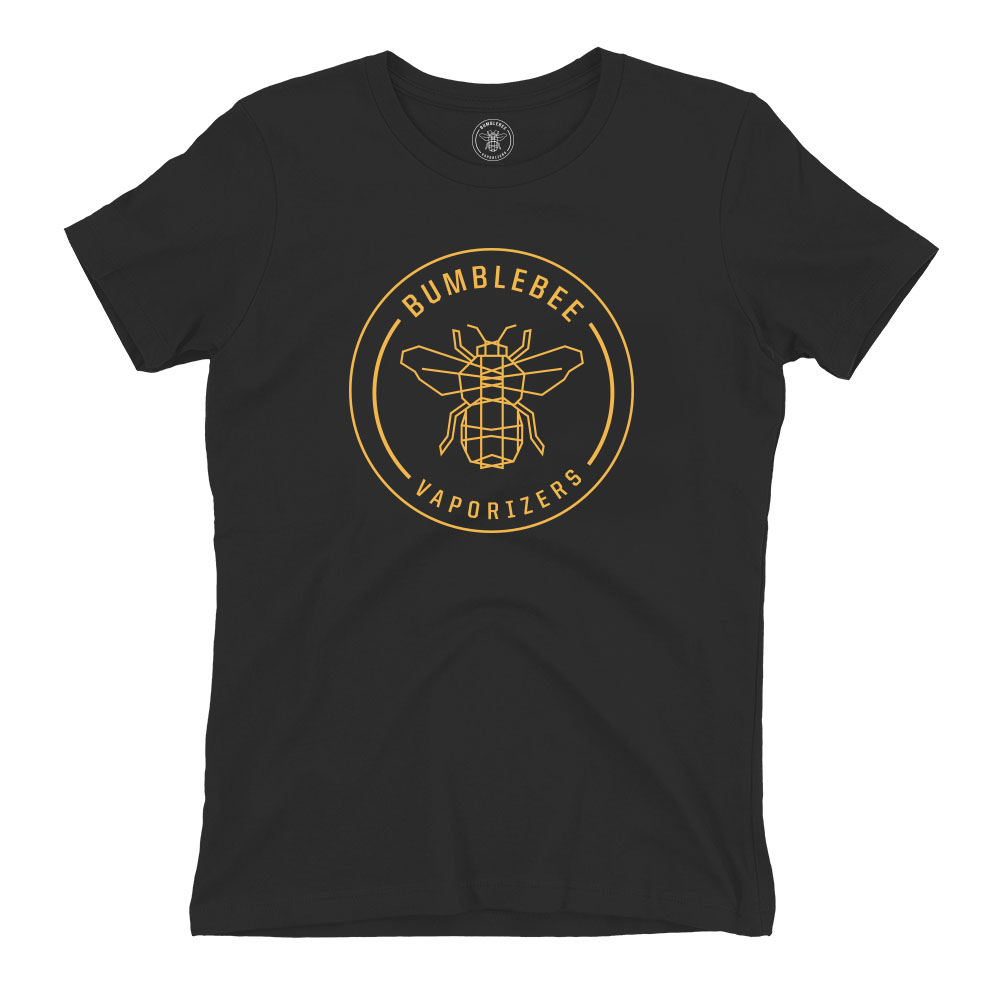
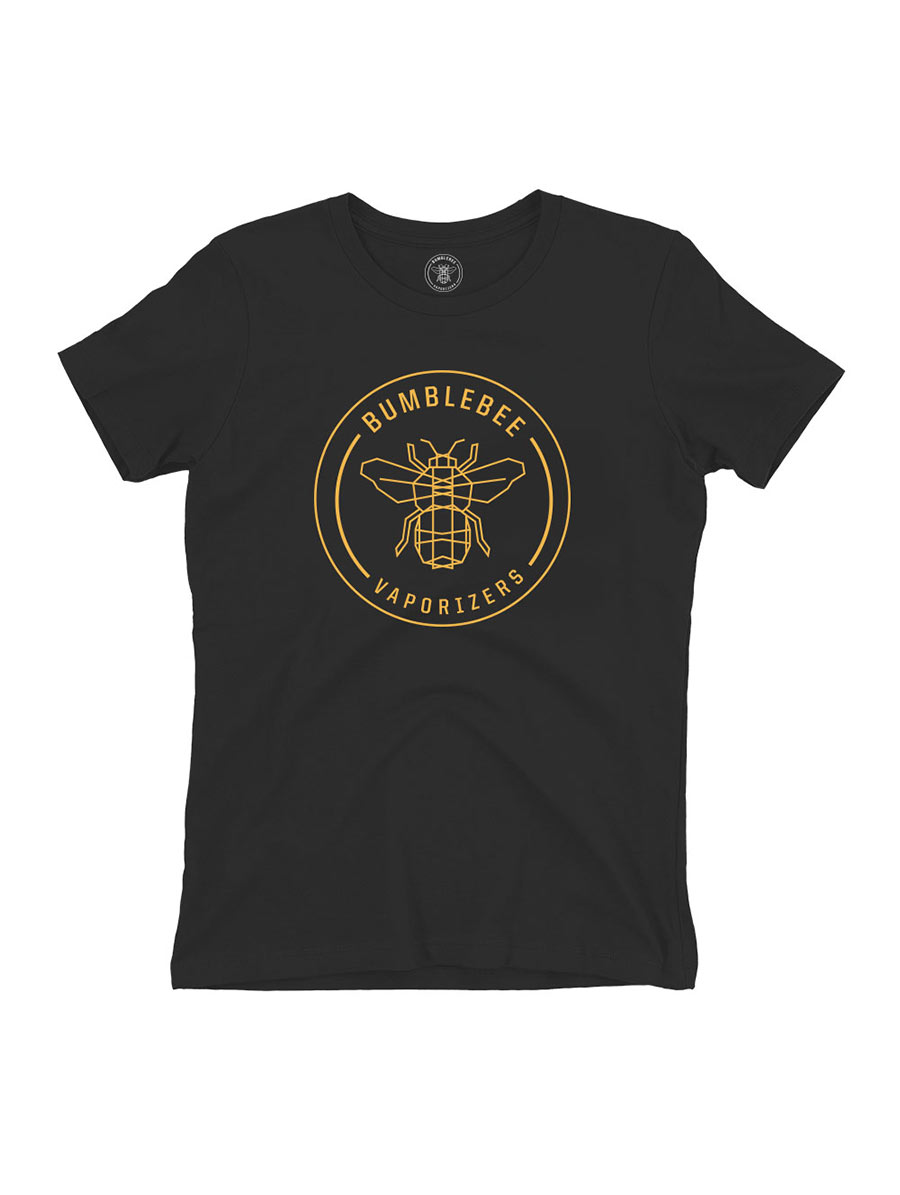
Pen info modals

Changed region(s): [[0.0622, 0.031, 0.9333, 0.434], [0.1867, 0.589, 0.7778, 0.961], [0.3422, 0.217, 0.6533, 0.558]]

diff --git a/index.html b/index.html
@@ -237,29 +237,68 @@
 					<figure class="product pen">
 						<h1 class="product_header">PENS.</h1>
 						<img src="assets/Pen_Sour_diesel.jpg" alt="Thumb"/>
-						<a href="http://bumblebee.meteorapp.com/bumblebee-vapes/product/sour-diesel" target="_blank">
-					    <figcaption class="produc"><div>learn More</div></figcation>
-						</a>
+						<figcaption class="produc pen1"><div class="">learn More</div></figcation>
 				  </figure>
+				</div>
+				<div class="modal" id="pen1">
+				  <div class="modal-background"></div>
+				  <div class="modal-content">
+						<div class="box black">
+							<p class="bv_pens_info">Pens</p>
+							<span class="tag is-success is-medium is-radiusless">Indica</span>
+							<span class="tag is-primary is-medium is-radiusless">Hybrid</span>
+							<span class="tag is-info is-medium is-radiusless">Sativa</span>
+							<br>
+							<hr>
+							<p class="bv_pens_content">We at Bumblebee vaporizers have offered the long lasting, durable and reliable single use vape pen for years, and it remains the industry's leading single use vaporizer pen due to our commitment to quality.  We use proven vape technology that allows consumption of a full gram of concentrate, with less headache and less hassle for the user.  The cartridge is pre-filled with a gram of our high potency concentrate giving the user a full dose of our strain specific medicine in one short puff.  The battery comes pre-charged and lasts the duration of the medicine so using the pen is a breeze, just inhale and enjoy! The sleek, all black design allows for discreet medication anytime, anywhere.  Try one, and see what all the buzz is about!</p>
+						</div>
+				  </div>
+				  <button class="modal-close is-large" aria-label="close"></button>
 				</div>
 				<div class="column is-paddingless penMargin">
 					<figure class="product cartridge">
 					<h1 class="product_header">CARTRIDGES.</h1>
 					<img src="assets/cartridge.jpg" alt="Thumb"/>
-					<a href="http://bumblebee.meteorapp.com/bumblebee-vapes/product/blue-dream-500mg" target="_blank">
-						<figcaption class="produc"><div>learn More</div></figcation>
-					</a>
+					<figcaption class="produc pen2"><div>learn More</div></figcation>
 				  </figure>
+				</div>
+				<div class="modal" id="pen2">
+				  <div class="modal-background"></div>
+				  <div class="modal-content">
+						<div class="box black">
+							<p class="bv_pens_info">CARTRIDGES</p>
+							<span class="tag is-success is-medium is-radiusless">Indica</span>
+							<span class="tag is-primary is-medium is-radiusless">Hybrid</span>
+							<span class="tag is-info is-medium is-radiusless">Sativa</span>
+							<br>
+							<hr>
+							<p class="bv_pens_content">Our 500ml vape cartridge exemplifies our commitment to excellence. We use a state of the art stainless steel cartridge that provides bigger puffs, better flavor, and is highly resistant to overheating. Our potent pure cannabis oil is enhanced with strain specific terpenes to give patients the medicine they need with the quality they expect. 510 thread designed to work best with our battery.and see what all the buzz is about!</p>
+						</div>
+				  </div>
+				  <button class="modal-close is-large" aria-label="close"></button>
 				</div>
 				<div class="column is-paddingless penMargin">
 					<figure class="product batteries">
 						<h1 class="product_header">BATTERIES.</h1>
 				    <img src="assets/battery.jpg" alt="Thumb"/>
-						<a href="http://bumblebee.meteorapp.com/bumblebee-vapes/product/sour-diesel" target="_blank">
-					    <figcaption class="produc"><div>learn More</div></figcation>
-						</a>
+						<figcaption class="produc pen3"><div>learn More</div></figcation>
 				  </figure>
 				</div>
+			</div>
+			<div class="modal" id="pen3">
+			  <div class="modal-background"></div>
+			  <div class="modal-content">
+					<div class="box black">
+						<p class="bv_pens_info">Cartridges</p>
+						<span class="tag is-success is-medium is-radiusless">Indica</span>
+						<span class="tag is-primary is-medium is-radiusless">Hybrid</span>
+						<span class="tag is-info is-medium is-radiusless">Sativa</span>
+						<br>
+						<hr>
+						<p class="bv_pens_info">Batteries</p>
+					</div>
+			  </div>
+			  <button class="modal-close is-large" aria-label="close"></button>
 			</div>
 		</section>
 
@@ -270,19 +309,19 @@
 					<figure class="shop shirt">
 						<img src="assets/blue_on_darkgrey.jpg" alt="Thumb"/>
 				  </figure>
-					<a href="http://bumblebee.meteorapp.com/bumblebee-vapes/product/bumblebee-t-shirt" target="_blank" class="button is-large is-outlined">Shop Now</a>
+					<a href="http://bumblebee.meteorapp.com/bumblebee-vapes/product/bumblebee-t-shirt" target="_blank" class="button is-large is-outlined shopBtn">Shop Now</a>
 				</div>
 				<div class="column is-paddingless centeredShop">
 					<figure class="shop shirt2">
-					<img src="assets/yellow_on_darkgrey.jpg" alt="Thumb"/>
+					<img src="assets/yellow_on_darkgrey_womens.jpg" alt="Thumb"/>
 				  </figure>
-					<a href="http://bumblebee.meteorapp.com/bumblebee-vapes/product/t-shirt2" target="_blank" class="button is-large is-outlined">Shop Now</a>
+					<a href="http://bumblebee.meteorapp.com/bumblebee-vapes/product/t-shirt2" target="_blank" class="button is-large is-outlined shopBtn">Shop Now</a>
 				</div>
 				<div class="column is-paddingless centeredShop">
 					<figure class="shop shirt3">
 				    <img src="assets/blue_on_darkgrey.jpg" alt="Thumb"/>
 				  </figure>
-					<a href="http://bumblebee.meteorapp.com/bumblebee-vapes/product/t-shirt2" target="_blank" class="button is-large is-outlined">Shop Now</a>
+					<a href="http://bumblebee.meteorapp.com/bumblebee-vapes/product/t-shirt2" target="_blank" class="button is-large is-outlined shopBtn">Shop Now</a>
 				</div>
 			</div>
 		</section>

diff --git a/main.js b/main.js
@@ -68,24 +68,17 @@
 
 
 
-
+// Get video aligned to top and preserve aspect-ratio on all device sizes
 var distance = $('.bv_mission').offset().top,
-
-    $window = $(window);
-
-
-
+$window = $(window);
 $window.scroll(function() {
-	// console.log("message", $('.fullscreen-bg__video').offset().top);
-
-	// $('.fullscreen-bg__video').css('display', 'none');
-	$window.scrollTop()
-    if ( $window.scrollTop() >= distance ) {
-        $('.fullscreen-bg').css('display', 'none');
-    }
-    else  {
-        $('.fullscreen-bg').css('display', 'block');
-    }
+$window.scrollTop()
+  if ( $window.scrollTop() >= distance ) {
+      $('.fullscreen-bg').css('display', 'none');
+  }
+  else  {
+      $('.fullscreen-bg').css('display', 'block');
+  }
 });
 
 
@@ -94,7 +87,7 @@ $window.scroll(function() {
 // Trigger Email modal if browser does not have cookie
 if (localStorage.getItem("bumbleBee") !== "true") {
 	setTimeout(function () {
-		$(".modal").addClass("is-active");
+		$("#collector").addClass("is-active");
 	}, 1000);
 }
 
@@ -151,11 +144,27 @@ $("#faq").click(function() {
 // Close emailCollector
 $('.modal-close, .noThanks').click(function() {
 		$(".modal").removeClass("is-active");
+		// $(".modal").css("z-index", "101");
 });
 
 // Remove cookie if user declines email form
 $('.noThanks').click(function() {
 		localStorage.setItem("bumbleBee", true);
+		// $(".modal").css("z-index", "101");
+});
+
+
+// Pens info
+$('.pen1').click(function() {
+		$("#pen1").addClass("is-active");
+});
+
+$('.pen2').click(function() {
+		$("#pen2").addClass("is-active");
+});
+
+$('.pen3').click(function() {
+		$("#pen3").addClass("is-active");
 });
 
 

diff --git a/styles.css b/styles.css
@@ -15,6 +15,14 @@ html, body{
   color: #fff;
 }
 
+.black {
+	color: black;
+}
+
+.modal {
+	z-index: 101;
+}
+
 .product {
   width: 100%;
   height: 100%;
@@ -64,6 +72,7 @@ figcaption div {
   opacity: 0;
   color: #14a7b6;
   text-transform: uppercase;
+	z-index: 100;
 }
 
 figcaption div:after {
@@ -123,6 +132,10 @@ figcaption div:after {
 .product:hover  div{
   opacity: 1;
 }
+
+.product  div{
+  left: 1.3rem;
+}
 .shop:hover  div{
   opacity: 1;
 }
@@ -150,7 +163,7 @@ figcaption div:after {
 	text-align: center;
 }
 
-.button {
+.shopBtn {
 	width: 80%;
 	bottom: 4rem;
 	z-index: 100;
@@ -311,9 +324,19 @@ a.navbar-item:hover {
 	color: white;
 }
 
+.is-radiusless {
+	border-radius: 0;
+}
+
 .bv_pens {
 	margin: 0;
 	top: .7rem;
+}
+
+.bv_pens_info {
+	font-size: 2rem;
+	font-weight: 900;
+	text-transform: capitalize;
 }
 
 .pen{
